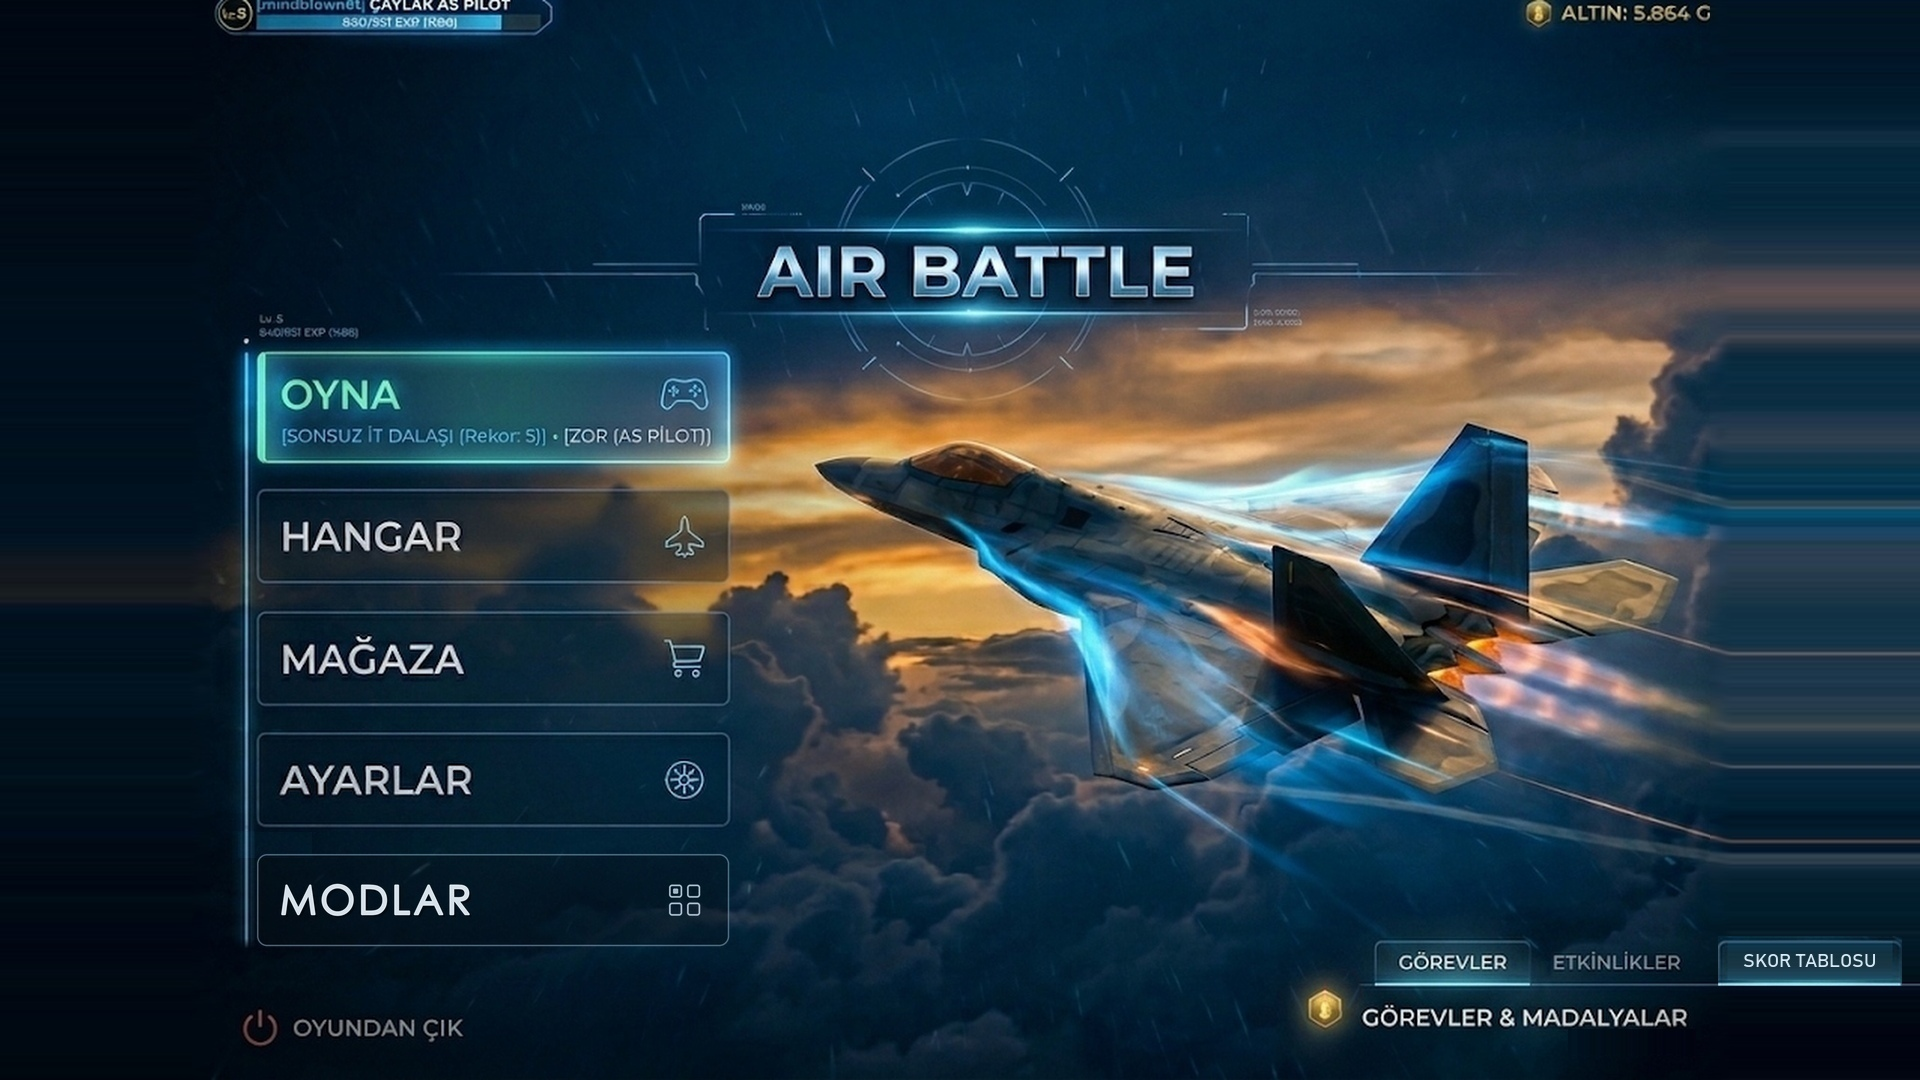
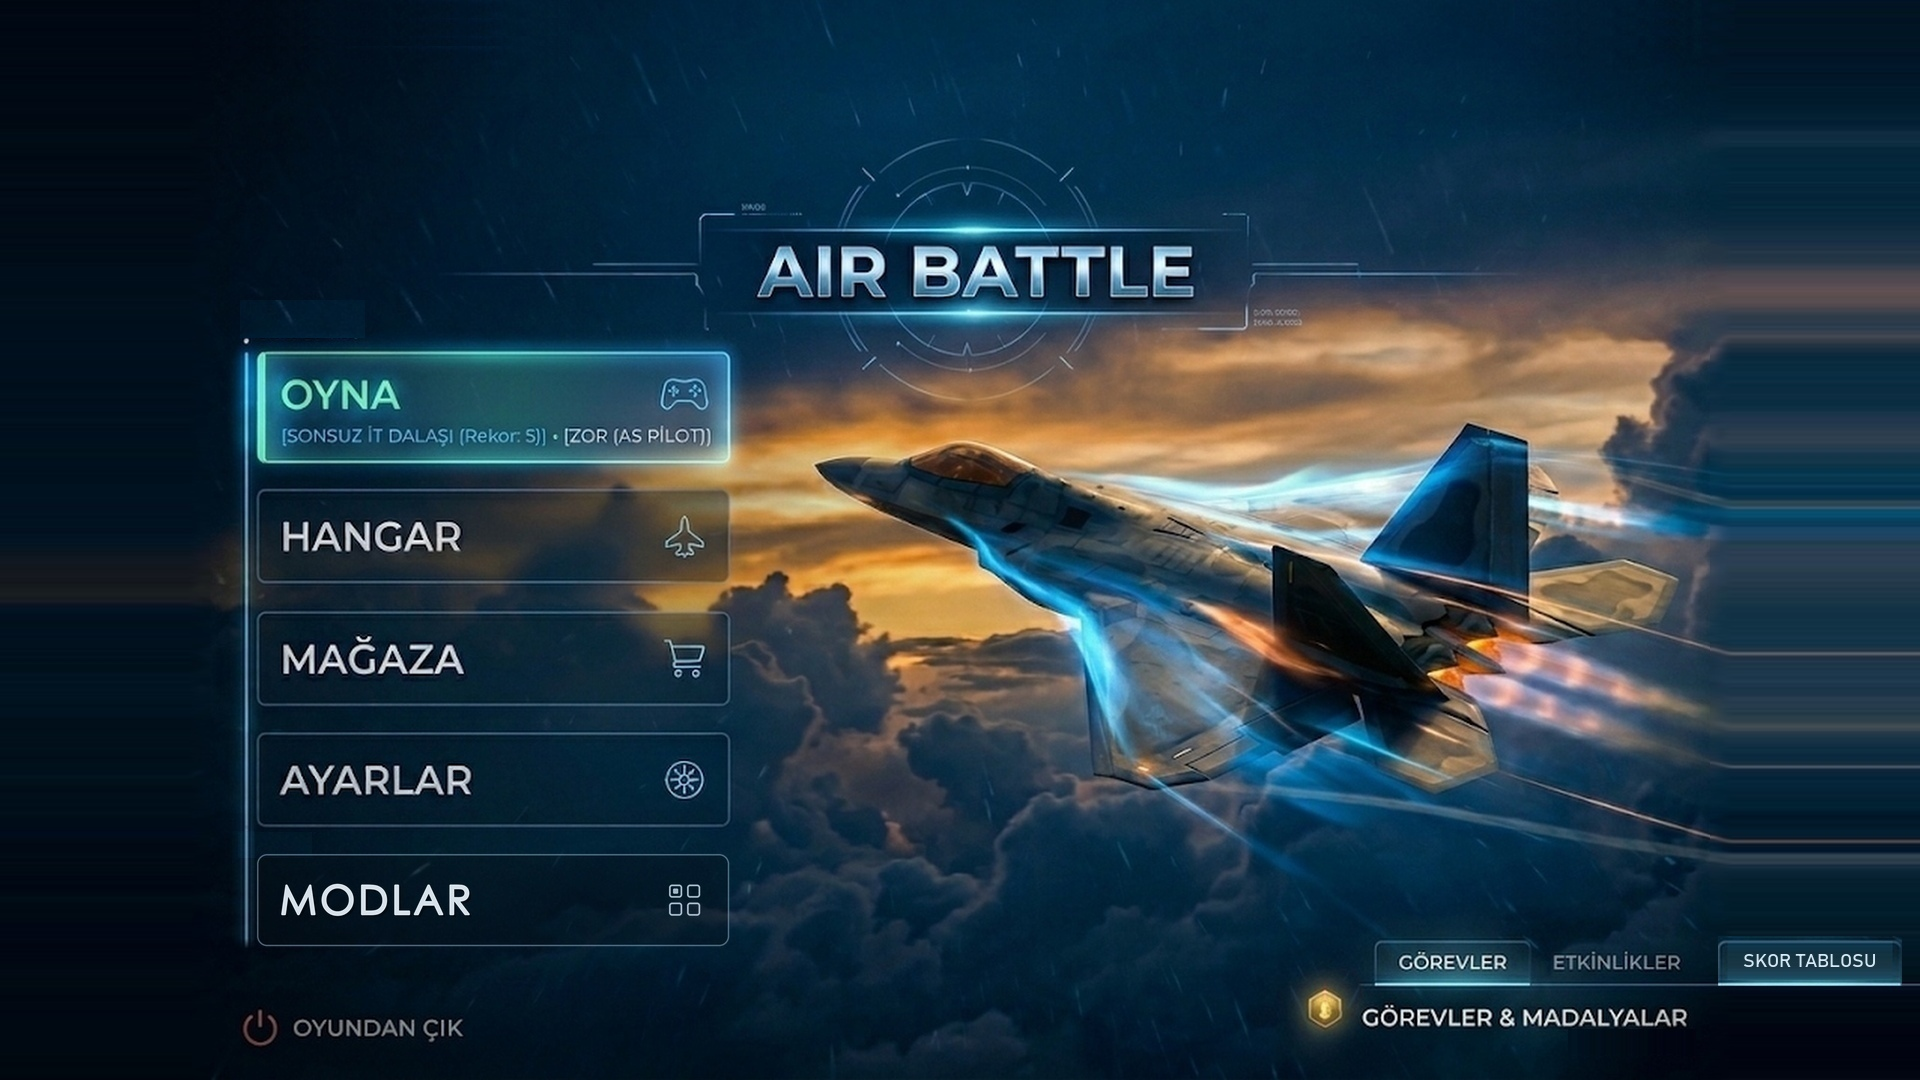
feat(ui): enlarge top-left Level & EXP bar and replace blurry baked badge with live status bar

Changed region(s): [[0.0938, 0.0, 0.2812, 0.0611], [0.7812, 0.0, 0.9062, 0.0306], [0.125, 0.275, 0.1875, 0.3361]]

diff --git a/My project/Assets/Scripts/UI/PlayerProfileUI.cs b/My project/Assets/Scripts/UI/PlayerProfileUI.cs
@@ -154,6 +154,9 @@ public class PlayerProfileUI : MonoBehaviour
         {
             _statusBarRoot.SetActive(true);
             _statusBarRoot.transform.SetAsLastSibling();
+            Transform loginModal = _statusBarRoot.transform.parent != null ? _statusBarRoot.transform.parent.Find("PilotLoginModalRoot") : null;
+            if (loginModal != null && loginModal.gameObject.activeSelf)
+                loginModal.SetAsLastSibling();
             SetGoldBadgeVisible(_isGoldBadgeVisible);
             RefreshBadgeVisuals();
         }
@@ -190,29 +193,30 @@ public class PlayerProfileUI : MonoBehaviour
         bRt.anchorMin = new Vector2(0f, 1f);
         bRt.anchorMax = new Vector2(0f, 1f);
         bRt.pivot = new Vector2(0f, 1f);
-        bRt.anchoredPosition = new Vector2(20f, -6f);
-        bRt.sizeDelta = new Vector2(330f, 40f);
+        bRt.anchoredPosition = new Vector2(24f, -14f);
+        bRt.sizeDelta = new Vector2(490f, 78f);
 
         Image bg = _badgeRoot.AddComponent<Image>();
-        bg.sprite = MainMenuManager.GetHudSprite("hud_panel_frame", new Color(0f, 0.85f, 1f, 0.85f), new Color(0.03f, 0.07f, 0.12f, 0.94f), false);
+        bg.sprite = MainMenuManager.GetRoundedBoxSprite("profile_badge_card", new Color(0.04f, 0.08f, 0.14f, 0.96f), new Color(0f, 0.85f, 1f, 0.85f), 12, 2);
         bg.type = Image.Type.Sliced;
         bg.color = Color.white;
 
         Button badgeBtn = _badgeRoot.AddComponent<Button>();
+        badgeBtn.targetGraphic = bg;
         badgeBtn.onClick.AddListener(OpenDossierModal);
 
-        // Seviye Kare Rozeti (Sol Taraf)
+        // Seviye Rozeti Kutusu (Sol Taraf - Büyük ve Net)
         GameObject lvlObj = new GameObject("LevelBox", typeof(RectTransform));
         lvlObj.transform.SetParent(_badgeRoot.transform, false);
         RectTransform lRt = lvlObj.GetComponent<RectTransform>();
         lRt.anchorMin = new Vector2(0f, 0.5f);
         lRt.anchorMax = new Vector2(0f, 0.5f);
         lRt.pivot = new Vector2(0f, 0.5f);
-        lRt.anchoredPosition = new Vector2(5f, 0f);
-        lRt.sizeDelta = new Vector2(32f, 32f);
+        lRt.anchoredPosition = new Vector2(10f, 0f);
+        lRt.sizeDelta = new Vector2(82f, 60f);
 
         Image lBg = lvlObj.AddComponent<Image>();
-        lBg.sprite = MainMenuManager.GetHudSprite("hud_btn_amber", new Color(1f, 0.85f, 0.2f, 1f), new Color(0.08f, 0.15f, 0.24f, 1f), false);
+        lBg.sprite = MainMenuManager.GetRoundedBoxSprite("profile_lvl_box", new Color(0.08f, 0.14f, 0.22f, 1f), new Color(1f, 0.82f, 0.22f, 0.95f), 10, 2);
         lBg.type = Image.Type.Sliced;
         lBg.color = Color.white;
 
@@ -226,47 +230,50 @@ public class PlayerProfileUI : MonoBehaviour
 
         _levelBadgeTMP = lTxtObj.AddComponent<TextMeshProUGUI>();
         _levelBadgeTMP.font = MainMenuManager.GetTacticalFont();
-        _levelBadgeTMP.fontSize = 15f;
+        _levelBadgeTMP.fontSize = 22f;
         _levelBadgeTMP.fontStyle = FontStyles.Bold;
-        _levelBadgeTMP.characterSpacing = 1.0f;
+        _levelBadgeTMP.characterSpacing = 0.8f;
+        _levelBadgeTMP.lineSpacing = -6f;
         _levelBadgeTMP.alignment = TextAlignmentOptions.Center;
-        _levelBadgeTMP.color = new Color(1f, 0.88f, 0.25f);
+        _levelBadgeTMP.color = new Color(1f, 0.90f, 0.28f);
         _levelBadgeTMP.raycastTarget = false;
 
-        // Rütbe Başlığı
+        // Pilot Adı & Rütbe Başlığı (Üst Satır)
         GameObject rObj = new GameObject("RankTitle", typeof(RectTransform));
         rObj.transform.SetParent(_badgeRoot.transform, false);
         RectTransform rRt = rObj.GetComponent<RectTransform>();
         rRt.anchorMin = new Vector2(0f, 1f);
         rRt.anchorMax = new Vector2(0f, 1f);
         rRt.pivot = new Vector2(0f, 1f);
-        rRt.anchoredPosition = new Vector2(42f, -3f);
-        rRt.sizeDelta = new Vector2(280f, 16f);
+        rRt.anchoredPosition = new Vector2(104f, -8f);
+        rRt.sizeDelta = new Vector2(374f, 28f);
 
         _rankTitleTMP = rObj.AddComponent<TextMeshProUGUI>();
         _rankTitleTMP.font = MainMenuManager.GetTacticalFont();
-        _rankTitleTMP.fontSize = 13f;
+        _rankTitleTMP.fontSize = 19f;
         _rankTitleTMP.fontStyle = FontStyles.Bold;
-        _rankTitleTMP.characterSpacing = 1.2f;
-        _rankTitleTMP.alignment = TextAlignmentOptions.Left;
+        _rankTitleTMP.characterSpacing = 1.1f;
+        _rankTitleTMP.alignment = TextAlignmentOptions.MidlineLeft;
         _rankTitleTMP.color = Color.white;
         _rankTitleTMP.raycastTarget = false;
         _rankTitleTMP.enableAutoSizing = true;
-        _rankTitleTMP.fontSizeMin = 11f;
-        _rankTitleTMP.fontSizeMax = 14f;
+        _rankTitleTMP.fontSizeMin = 15f;
+        _rankTitleTMP.fontSizeMax = 20f;
 
-        // EXP Bar Çerçevesi
+        // EXP Bar Çerçevesi (Alt Satır - Geniş ve Yüksek Okunaklı Bar)
         GameObject barBgObj = new GameObject("ExpBarBg", typeof(RectTransform));
         barBgObj.transform.SetParent(_badgeRoot.transform, false);
         RectTransform barRt = barBgObj.GetComponent<RectTransform>();
         barRt.anchorMin = new Vector2(0f, 0f);
         barRt.anchorMax = new Vector2(0f, 0f);
         barRt.pivot = new Vector2(0f, 0f);
-        barRt.anchoredPosition = new Vector2(42f, 4f);
-        barRt.sizeDelta = new Vector2(280f, 15f);
+        barRt.anchoredPosition = new Vector2(104f, 9f);
+        barRt.sizeDelta = new Vector2(374f, 28f);
 
         Image barBg = barBgObj.AddComponent<Image>();
-        barBg.color = new Color(0.02f, 0.04f, 0.07f, 1f);
+        barBg.sprite = MainMenuManager.GetRoundedBoxSprite("profile_exp_bg", new Color(0.02f, 0.05f, 0.09f, 1f), new Color(0.16f, 0.28f, 0.40f, 1f), 6, 1);
+        barBg.type = Image.Type.Sliced;
+        barBg.color = Color.white;
 
         // EXP Bar Dolgu
         GameObject fillObj = new GameObject("ExpBarFill", typeof(RectTransform));
@@ -274,16 +281,16 @@ public class PlayerProfileUI : MonoBehaviour
         RectTransform fillRt = fillObj.GetComponent<RectTransform>();
         fillRt.anchorMin = Vector2.zero;
         fillRt.anchorMax = Vector2.one;
-        fillRt.offsetMin = Vector2.zero;
-        fillRt.offsetMax = Vector2.zero;
+        fillRt.offsetMin = new Vector2(2f, 2f);
+        fillRt.offsetMax = new Vector2(-2f, -2f);
 
         _expBarFill = fillObj.AddComponent<Image>();
-        _expBarFill.color = new Color(0f, 0.85f, 1f, 0.95f);
+        _expBarFill.color = new Color(0.04f, 0.72f, 0.96f, 0.96f);
         _expBarFill.type = Image.Type.Filled;
         _expBarFill.fillMethod = Image.FillMethod.Horizontal;
         _expBarFill.fillOrigin = (int)Image.OriginHorizontal.Left;
 
-        // EXP Bar Yazısı
+        // EXP Bar Yazısı (Büyük ve Kontrastlı)
         GameObject barTxtObj = new GameObject("ExpText", typeof(RectTransform));
         barTxtObj.transform.SetParent(barBgObj.transform, false);
         RectTransform btRt = barTxtObj.GetComponent<RectTransform>();
@@ -294,12 +301,13 @@ public class PlayerProfileUI : MonoBehaviour
 
         _expBarTMP = barTxtObj.AddComponent<TextMeshProUGUI>();
         _expBarTMP.font = MainMenuManager.GetTacticalFont();
-        _expBarTMP.fontSize = 11f;
+        _expBarTMP.fontSize = 16.5f;
         _expBarTMP.fontStyle = FontStyles.Bold;
         _expBarTMP.characterSpacing = 1.0f;
         _expBarTMP.alignment = TextAlignmentOptions.Center;
         _expBarTMP.color = Color.white;
         _expBarTMP.raycastTarget = false;
+        MainMenuManager.SetOutlineSafe(_expBarTMP, 0.16f, new Color(0.01f, 0.03f, 0.07f, 0.98f));
     }
 
     private void BuildMenuGoldBadge(Transform parent)
@@ -313,15 +321,16 @@ public class PlayerProfileUI : MonoBehaviour
         gRt.anchorMin = new Vector2(1f, 1f);
         gRt.anchorMax = new Vector2(1f, 1f);
         gRt.pivot = new Vector2(1f, 1f);
-        gRt.anchoredPosition = new Vector2(-20f, -6f);
-        gRt.sizeDelta = new Vector2(200f, 38f);
+        gRt.anchoredPosition = new Vector2(-24f, -14f);
+        gRt.sizeDelta = new Vector2(240f, 52f);
 
         Image gBg = _goldBadgeRoot.AddComponent<Image>();
-        gBg.sprite = MainMenuManager.GetHudSprite("hud_btn_amber", new Color(1f, 0.85f, 0.2f, 0.95f), new Color(0.06f, 0.05f, 0.02f, 0.95f), true);
+        gBg.sprite = MainMenuManager.GetRoundedBoxSprite("profile_gold_card", new Color(0.06f, 0.08f, 0.12f, 0.96f), new Color(1f, 0.82f, 0.22f, 0.92f), 10, 2);
         gBg.type = Image.Type.Sliced;
         gBg.color = Color.white;
 
         Button gBtn = _goldBadgeRoot.AddComponent<Button>();
+        gBtn.targetGraphic = gBg;
         gBtn.onClick.AddListener(() =>
         {
             if (MainMenuManager.Instance != null && MainMenuManager.Instance.mainPanel != null && MainMenuManager.Instance.mainPanel.activeSelf)
@@ -340,9 +349,9 @@ public class PlayerProfileUI : MonoBehaviour
 
         _goldBadgeTMP = goldTxtObj.AddComponent<TextMeshProUGUI>();
         _goldBadgeTMP.font = MainMenuManager.GetTacticalFont();
-        _goldBadgeTMP.fontSize = 17f;
+        _goldBadgeTMP.fontSize = 20f;
         _goldBadgeTMP.fontStyle = FontStyles.Bold;
-        _goldBadgeTMP.characterSpacing = 1.5f;
+        _goldBadgeTMP.characterSpacing = 1.4f;
         _goldBadgeTMP.alignment = TextAlignmentOptions.Center;
         _goldBadgeTMP.color = new Color(1f, 0.88f, 0.25f);
         _goldBadgeTMP.raycastTarget = false;
@@ -488,13 +497,13 @@ public class PlayerProfileUI : MonoBehaviour
 
         // 1. Ana Menü Rozeti
         if (_levelBadgeTMP != null)
-            _levelBadgeTMP.text = $"<size=65%><color=#8AB4F8>S.</color></size><b>{pm.level}</b>";
+            _levelBadgeTMP.text = $"<size=52%><color=#93C5FD>SEVİYE</color></size>\n<b>{pm.level}</b>";
 
         if (_rankTitleTMP != null)
         {
             Color c = PlayerProfileManager.GetRankColor(pm.level);
             string callsign = LeaderboardManager.PlayerCallsign;
-            _rankTitleTMP.text = $"<color=#00E5FF><b>[{callsign}]</b></color> <color=#{ColorUtility.ToHtmlStringRGB(c)}>{pm.RankTitle.ToUpper()}</color>";
+            _rankTitleTMP.text = $"<color=#00E5FF><b>[{callsign}]</b></color> • <color=#{ColorUtility.ToHtmlStringRGB(c)}><b>{pm.RankTitle.ToUpper()}</b></color>";
         }
 
         if (_expBarFill != null)
@@ -503,7 +512,8 @@ public class PlayerProfileUI : MonoBehaviour
         if (_expBarTMP != null)
         {
             int percent = Mathf.RoundToInt(pm.ExpProgress * 100f);
-            _expBarTMP.text = $"<b>{pm.currentExp:N0}/{pm.ExpForNextLevel:N0} EXP (%{percent})</b>";
+            _expBarTMP.text = $"<b>{pm.currentExp:N0} / {pm.ExpForNextLevel:N0} EXP  (%{percent})</b>";
+            MainMenuManager.SetOutlineSafe(_expBarTMP, 0.16f, new Color(0.01f, 0.03f, 0.07f, 0.98f));
         }
 
         // 2. Savaş İçi HUD Rozeti & EXP Barı

diff --git a/My project/Assets/Scripts/UI/MainMenuManager.cs b/My project/Assets/Scripts/UI/MainMenuManager.cs
@@ -1452,8 +1452,8 @@ public class MainMenuManager : MonoBehaviour
             _titleObject.SetActive(false); // Arka plan görselindeki orijinal krom AIR BATTLE ve nişangah doğrudan görünsün
         }
 
-        // Ana menüdeyken görsel üzerindeki orijinal pilot rütbesi ve altın barı net kalsın; alt sayfalarda dinamik çubuk açılır
-        PlayerProfileUI.Instance?.HideMenuStatusBar();
+        // Ana menüde de giriş yapan oyuncunun canlı Seviye, EXP Barı ve Altın rozetini büyük ve net olarak göster
+        PlayerProfileUI.EnsureUI()?.ShowMenuStatusBar(showGoldBadge: true);
 
         if (MilitaryStoreUI.Instance != null) MilitaryStoreUI.Instance.CloseDirectly();
         if (HangarUI.Instance != null) HangarUI.Instance.CloseDirectly();
